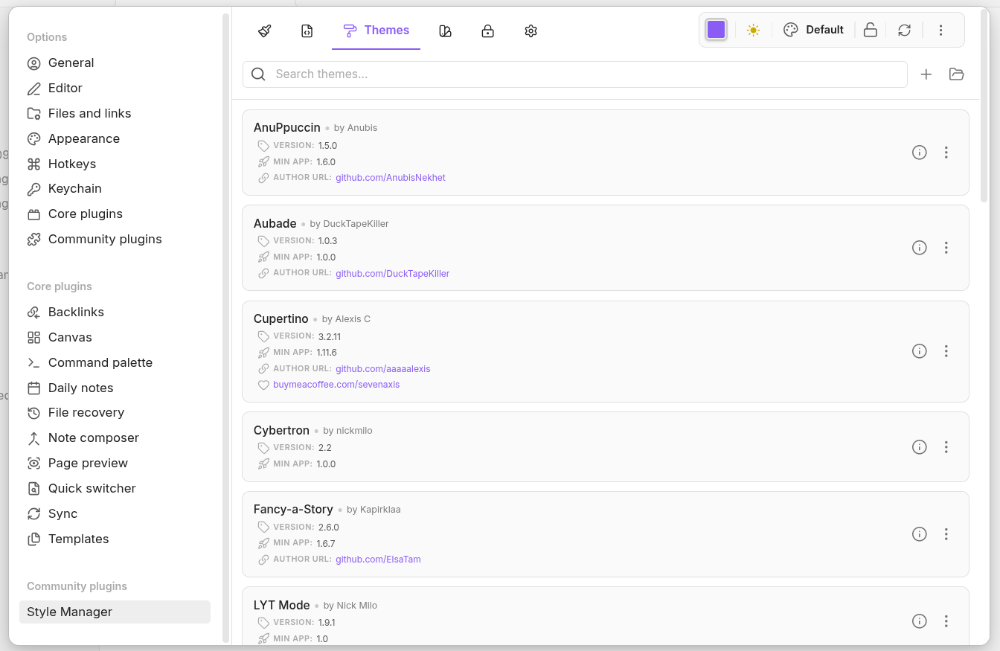
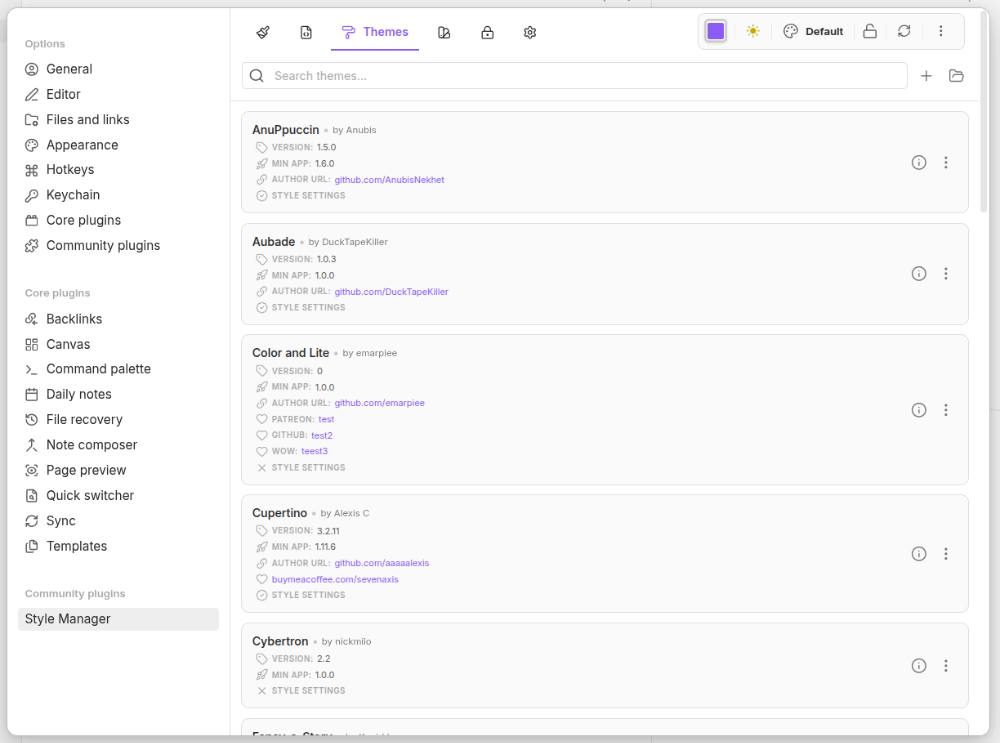
docs: update README

diff --git a/src/ui/views/ReadmeContent.ts b/src/ui/views/ReadmeContent.ts
@@ -168,6 +168,10 @@ Style Manager interface is structured into six functional tabs.
 
 *Manage Obsidian's native CSS snippets from a centralized list.*
 - **Snippet Control:** Search, select, and toggle native CSS snippets through a unified list.
+- **Style Settings Indicator:** Visual indicator showing if a snippet supports configurable style settings.
+- **Advanced Filter Search:** Filter snippets using specialized search attributes:
+    - \`@name\`, \`@description\`, \`@license\` – Match against snippet metadata.
+    - \`@settings [true/false]\` – Filter for snippets that do or do not support style settings.
 - **Vault Integration:** Quick-access buttons to open your system's file explorer directly to your vault's snippets folder.
 - **Bulk Selection:** Choose multiple snippets simultaneously for coordinated actions.
 
@@ -177,9 +181,11 @@ Style Manager interface is structured into six functional tabs.
 
 *Tools for switching, and building custom themes.*
 - **Theme Manifest Creation:** Create new custom themes by defining their metadata (Name, Author, etc.) via a dedicated manifest modal.
+- **Style Settings Indicator:** Visual indicator showing if a theme supports configurable style settings.
 - **Advanced Filter Search:** Filter themes using specialized search attributes:
     - \`@author [name]\` – Find themes made by a specific creator.
     - \`@name [name]\` – Find themes matching a specific title.
+    - \`@settings [true/false]\` – Filter for themes that do or do not support style settings.
 - **Folder Shortcut:** One-click button to open your local \`.obsidian/themes\` directory.
 
 ### 4. Presets Tab

diff --git a/README.md b/README.md
@@ -168,6 +168,10 @@ Style Manager interface is structured into six functional tabs.
 
 *Manage Obsidian's native CSS snippets from a centralized list.*
 - **Snippet Control:** Search, select, and toggle native CSS snippets through a unified list.
+- **Style Settings Indicator:** Visual indicator showing if a snippet supports configurable style settings.
+- **Advanced Filter Search:** Filter snippets using specialized search attributes:
+    - `@name`, `@description`, `@license` – Match against snippet metadata.
+    - `@settings [true/false]` – Filter for snippets that do or do not support style settings.
 - **Vault Integration:** Quick-access buttons to open your system's file explorer directly to your vault's snippets folder.
 - **Bulk Selection:** Choose multiple snippets simultaneously for coordinated actions.
 
@@ -177,9 +181,11 @@ Style Manager interface is structured into six functional tabs.
 
 *Tools for switching, and building custom themes.*
 - **Theme Manifest Creation:** Create new custom themes by defining their metadata (Name, Author, etc.) via a dedicated manifest modal.
+- **Style Settings Indicator:** Visual indicator showing if a theme supports configurable style settings.
 - **Advanced Filter Search:** Filter themes using specialized search attributes:
     - `@author [name]` – Find themes made by a specific creator.
     - `@name [name]` – Find themes matching a specific title.
+    - `@settings [true/false]` – Filter for themes that do or do not support style settings.
 - **Folder Shortcut:** One-click button to open your local `.obsidian/themes` directory.
 
 ### 4. Presets Tab